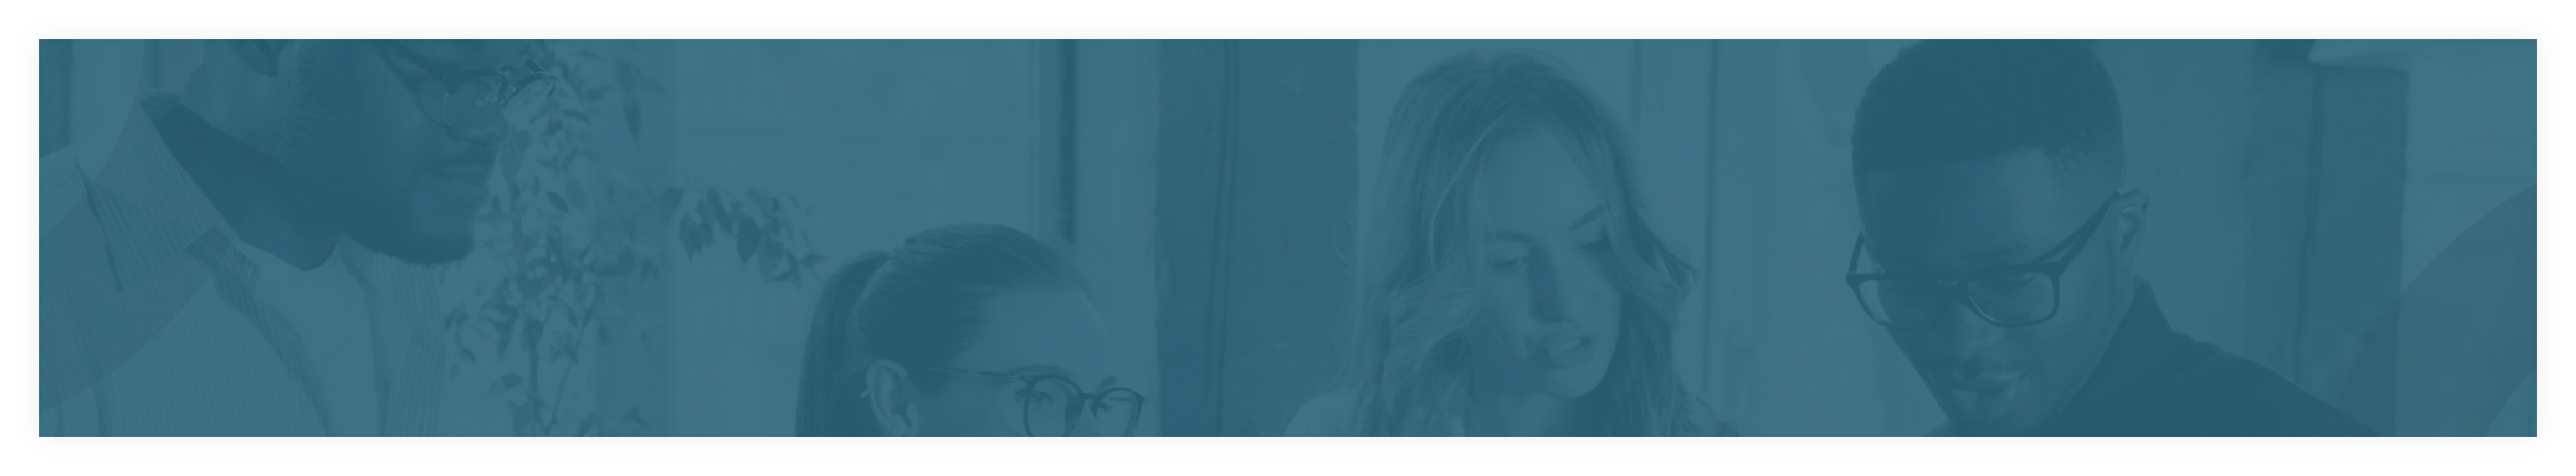
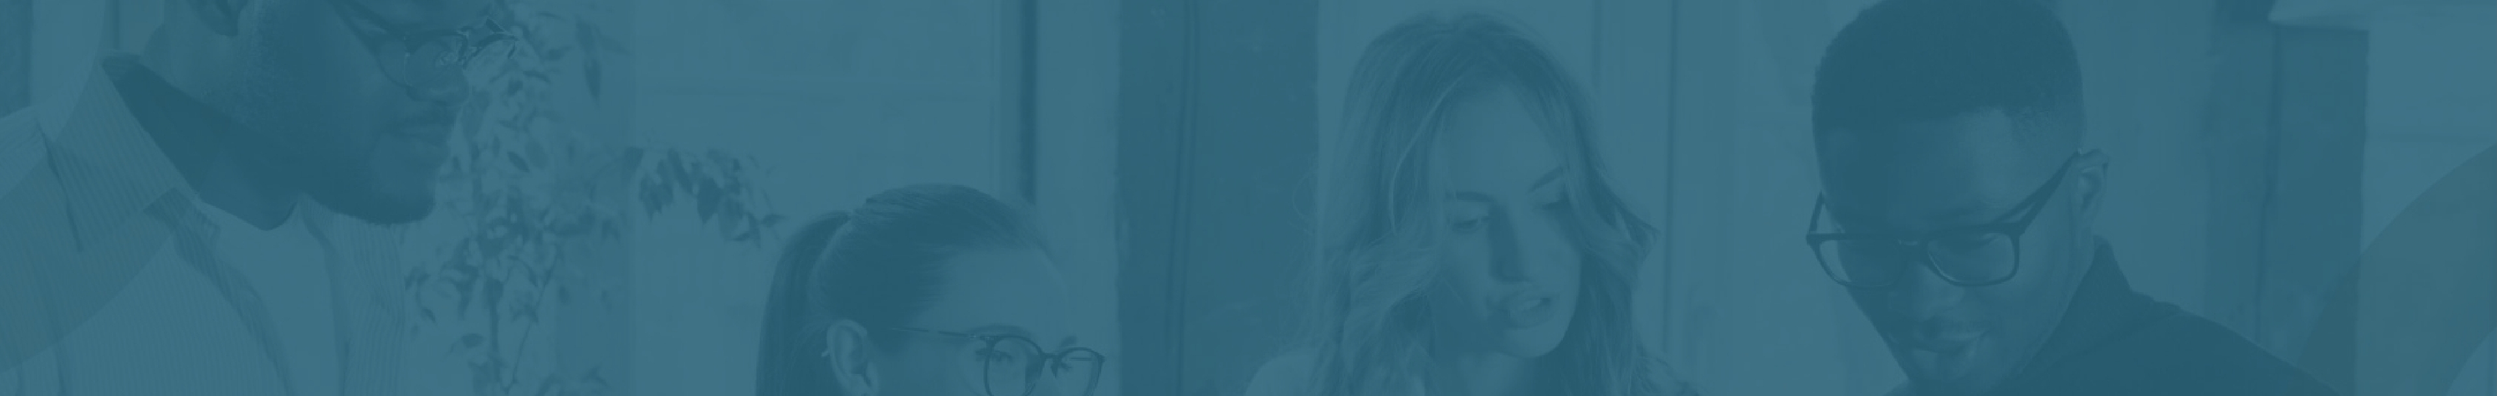
- Se trabajó página de colecta. - Se cargaron imágenes de iconos y optimizaron otras a webp.

Changed region(s): [[0.0, 0.0, 1.0, 1.0]]

diff --git a/scss/custom.scss b/scss/custom.scss
@@ -8,6 +8,7 @@ $primary: #3D8FA0;
 $secondary: #058FA5;
 $tertiary: #105A73;
 $info: #B6FFF6;
+$light-gray-3: #EEF2F4;
 
 
 //Font sizes
@@ -60,7 +61,7 @@ body{ color: #4C4C4C; }
   background: rgb(182,255,246);
   background: radial-gradient(ellipse at 50% 100%, rgba(182,255,246,.7) 0%, rgba(255,255,255,1) 47%);
 }
-.bg-light-primary{background-color:#EEF2F4}
+.bg-light-primary{background-color: $light-gray-3;}
 
 // Carousel
 .carousel-inner {
@@ -242,7 +243,7 @@ body{ color: #4C4C4C; }
 // Global RADAR
 .custom-card {
   .card {
-    background:#EEF2F4;
+    background:$light-gray-3;
     border:solid 1px #BDCCD4;
     box-shadow: 0px 0px 20px #00000010;
   }
@@ -290,8 +291,25 @@ body{ color: #4C4C4C; }
 
 // Sentinel
 .sentinel-row-bg {
-  background: url("../images/hel-sentinel-bg.jpg") no-repeat center center / cover;
+  background: url("../images/hel-sentinel-bg.webp") no-repeat center center / cover;
 }
+
+
+// Colecta
+.custom-card--colecta {
+  .card {
+    background:$light-gray-3;
+    box-shadow: none;
+    min-width:calc(33% - 16px) ;
+  }
+}
+@media (max-width: 575px) {
+  .br-0 {
+    border-radius: 0 !important;
+  }
+}
+
+
 
 //======================= Funciones ===========================
 

diff --git a/css/custom.css b/css/custom.css
@@ -12155,9 +12155,20 @@ body {
   }
 }
 .sentinel-row-bg {
-  background: url("../images/hel-sentinel-bg.jpg") no-repeat center center/cover;
+  background: url("../images/hel-sentinel-bg.webp") no-repeat center center/cover;
 }
 
+.custom-card--colecta .card {
+  background: #EEF2F4;
+  box-shadow: none;
+  min-width: calc(33% - 16px);
+}
+
+@media (max-width: 575px) {
+  .br-0 {
+    border-radius: 0 !important;
+  }
+}
 @media (max-width: 575px) {
   #mobile-side-scroll {
     display: grid !important;

diff --git a/soluciones-colecta.php b/soluciones-colecta.php
@@ -9,11 +9,85 @@ function customPageHeader(){?>
 
 include_once('templates/header.php'); ?>
 
-<div class="container vh-100">
-  <div class="row py-4">
-    <h1>Soluciones - Colecta</h>
+
+<div class="container-fluid">
+  <div class="row header-bg-img py-xl-5 py-3">
+    <h1 class="text-center text-white">Colecta</h1>
   </div>
 </div>
+
+<section class="container-lg mw-1120">
+  <div class="row pt-100 pb-64 d-flex mio-bg-gradient">
+    <div class="col-sm-4">
+      <h2 class="fs-3 fw-bold text-primary text-center text-sm-start pb-3">¿Qué es Colecta?</h2>
+    </div>
+    <div class="col-sm-8">
+      <p>Un efecto de la recesión en el País ha sido que la morosidad en los pagos a los préstamos ha incrementado desde el 2007. Ese aumento en la morosidad ha provocado que las cooperativas de ahorro y crédito hayan tenido que aumentar las reservas para préstamos incobrables. Permítanos ayudar en el cobro de estos préstamos.
+      </p>
+      <p>Colecta es un servicio automatizado de llamadas. Realiza las gestiones de cobros y campañas de mercadeo.
+      </p>
+    </div>
+  </div>
+</section>
+
+<section class="container-lg py-5">
+  <div class="row text-center mx-auto mw-930 pb-4">
+    <h2 class="fs-3 fw-bold text-primary">Características Principales</h2>
+  </div>
+
+  <div id="mobile-side-scroll" class="col d-flex flex-wrap custom-card--colecta">
+    <div class="card text-center mt-md-3">
+      <div class="p-4">
+        <img src="images/col-recordatorio-icn.svg" alt="" class="img-responsive">
+        <p class="my-3 light-gray-2 fs-6 text-primary fw-medium">Recordatorio <br/>de pagos</p>
+      </div>
+    </div>
+    <div class="card text-center mt-md-3">
+      <div class="p-4">
+          <img src="images/col-renovacion-icn.svg" alt="" class="img-responsive">
+          <p class="my-3 light-gray-2 fs-6 text-primary fw-medium">Renovación <br/>de préstamos</p>
+      </div>
+    </div>
+    <div class="card text-center mt-md-3">
+      <div class="p-4">
+          <img src="images/col-tarjetas-icn.svg" alt="" class="img-responsive">
+          <p class="my-3 light-gray-2 fs-6 text-primary fw-medium">Campañas de tarjetas <br/>de crédito</p>
+      </div>
+    </div>
+    <div class="card text-center mt-md-3">
+      <div class="p-4">
+          <img src="images/col-llamadas-icn.svg" alt="" class="img-responsive">
+          <p class="my-3 light-gray-2 fs-6 text-primary fw-medium">Llamadas de bienvenida <br/>a los socios</p>
+      </div>
+    </div>
+    <div class="card text-center mt-md-3">
+      <div class="p-4">
+          <img src="images/col-asambleas-icn.svg" alt="" class="img-responsive">
+          <p class="my-3 light-gray-2 fs-6 text-primary fw-medium">Convocatoria a <br/>asambleas</p>
+      </div>
+    </div>
+    <div class="card text-center mt-md-3">
+      <div class="p-4">
+          <img src="images/col-prestamos-icn.svg" alt="" class="img-responsive">
+          <p class="my-3 light-gray-2 fs-6 text-primary fw-medium">Llamadas diarias a todos los <br/>préstamos morosos</p>
+      </div>
+    </div>
+  </div>
+</section>
+<section class="container py-5 sentinel-row-bg mw-1120 rounded-2 my-5 br-0">
+  <div class="row text-sm-start text-center mx-auto">
+    <div class="col d-flex justify-content-between flex-column flex-sm-row align-items-center px-sm-5">
+      <h2 class="fs-3 text-white mb-4">Programa una consulta hoy mismo y obtén los beneficios.</h2>
+      <a href="contactenos.php">
+        <button class="btn btn-info mx-auto text-tertiary fw-light text-nowrap">Coordina tu cita aquí</button>
+      </a>
+    </div>
+  </div>
+</section>
+
+
+<!-- Template Beneficios -->
+<?php include_once ('templates/beneficios.php'); ?>
 
 <?php
 include_once('templates/footer.php');

diff --git a/soluciones-sentinel.php b/soluciones-sentinel.php
@@ -18,7 +18,7 @@ include_once('templates/header.php'); ?>
 <section class="container-lg mw-1120">
   <div class="row pt-100 pb-64 d-flex mio-bg-gradient">
     <div class="col-sm-4">
-      <H2 class="fs-3 fw-bold text-primary">¿Qué es Sentinel</H2>
+      <H2 class="fs-3 fw-bold text-primary">¿Qué es Sentinel?</H2>
     </div>
     <div class="col-sm-8">
       <p>Sentinel es el producto de excelencia para comenzar esta fase de manejo de contenido electrónico, conocido por sus siglas en inglés, ECM (Electronic Content Management). Como parte de la solución se incluye un módulo de COLD para la importación de reportes diarios y mensuales. Adicional se incluye “Teller Scanning”, en adelante TELLER SCANNING. Integrado con la aplicación de ALAS y APERTURA, es la base para el expediente electrónico del socio.
